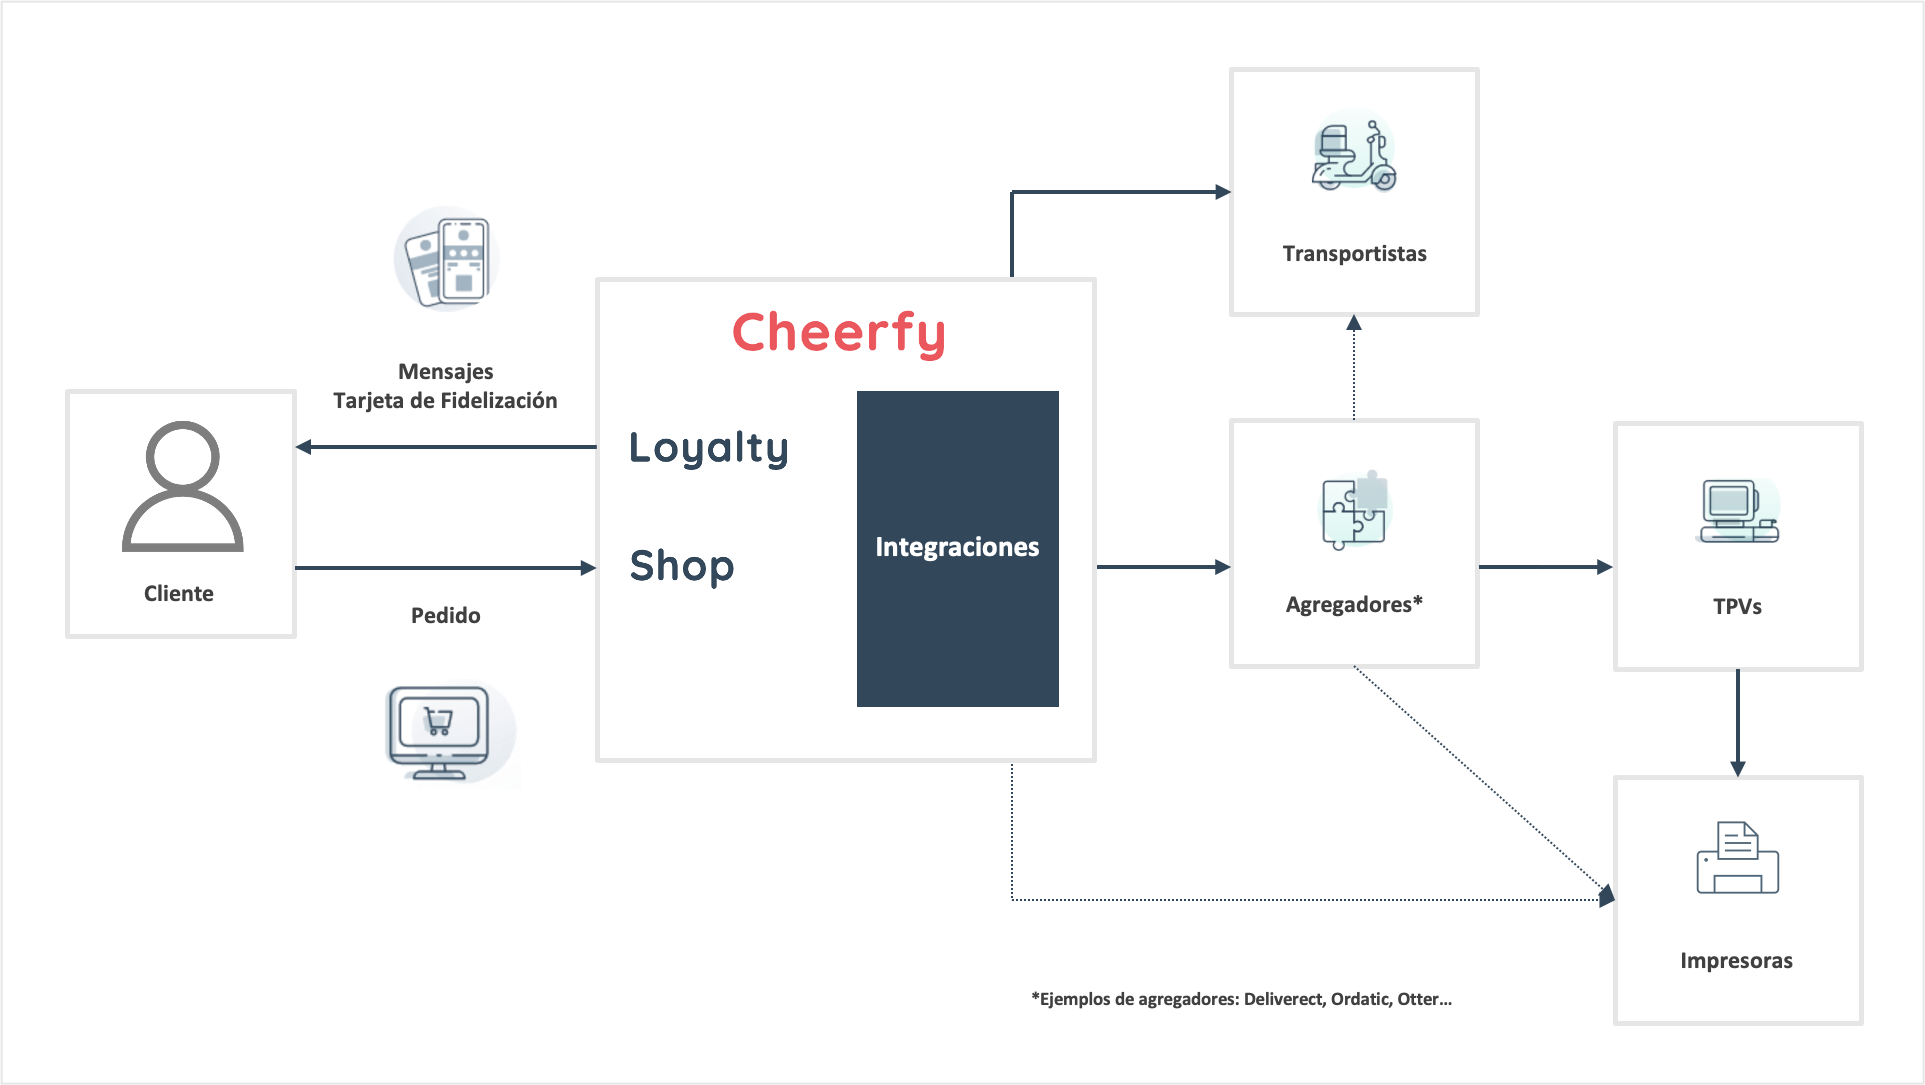
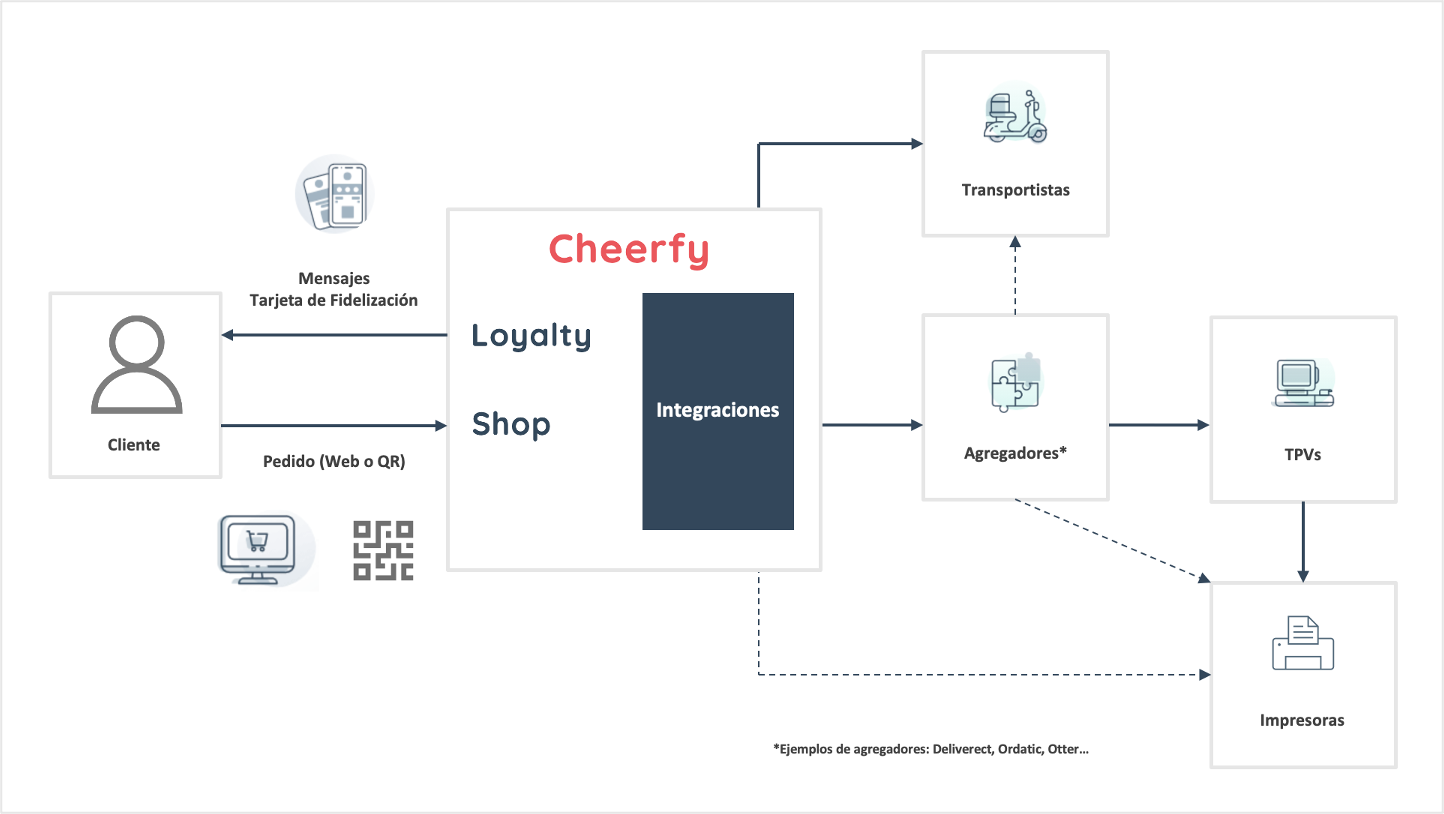
GitBook: [#104] Formación Empleados 1

diff --git a/cheerfy-shop-1/forma-a-tus-empleados.md b/cheerfy-shop-1/forma-a-tus-empleados.md
@@ -8,56 +8,141 @@ description: >-
 
 ## Introducción
 
-#### Viaje del cliente
+### Viaje del cliente
 
 ![](../.gitbook/assets/Exp1.jpg)
 
 ![](../.gitbook/assets/Exp2.jpg)
 
-#### Ecosistema
+### Ecosistema
 
-![](<../.gitbook/assets/Exp flujo (2).png>)
+![](<../.gitbook/assets/Exp flujo (1).png>)
 
-## Servicios
+## Servicios y horarios
 
-* Recogidas - pedidos de Take Away o para recoger en tienda
+* Recogidas - pedidos de Take Away o para recoger en tienda.
 * Entregas - pedidos a domicilio.
 * Cenas - pedidos producidos en el restaurante.
 
+### 3 tipos de servicio
+
 ![](<../.gitbook/assets/image (170).png>)
 
-#### Parámetros clave
+#### 1. Recogidas
 
-* General.
-  * **Activado**: haz clic para activar el servicio.
+Pedidos de Take Away o para recoger en tienda.
 
-<img src="../.gitbook/assets/image (169).png" alt="" data-size="original">
+**Parámetros clave**:
 
-* Tiempo de pedido.
-  * **Habilitar pedidos inmediatos**: haz clic para activar pedidos inmediatos.
-  * **Compensación del Primer Pedido**: período de tiempo desde que su tienda abre hasta que acepta el primer pedido. Por ejemplo, si aquí añades 30 minutos y tu tienda abre a las 9:00am, el primer pedido se podrá realizar o programar a las 9:30am.
-  * **Compensación del Último Pedido**: período de tiempo desde que tu tienda cierra hasta que se acepta el último pedido. Por ejemplo, si aquí añades 30 minutos y tu tienda cierra a las 9:00pm, el último pedido se podrá realizar o programar a las 8:30pm.
-  * **Habilitar pedidos posteriores**: haz clic para permitir a tus clientes realizar pedidos para una fecha y hora posteriores.
-  * **Días máximos de adelanto**: número de días de anticipación que los clientes pueden realizar pedidos.
-  * **Intervalo de tiempo**: cantidad de minutos entre cada intervalo de tiempo de pedido disponible.
-  * **Compensación de pedidos**: cantidad mínima de tiempo a partir de ahora que se debe realizar un pedido para un momento posterior.
 
-![](<../.gitbook/assets/image (166).png>)
 
-* Horas disponibles.
-  * **Horas de servicio personalizadas**: si deseas que un determinado servicio tenga un horario especial o distinto al resto, ajusta aquí el horario concreto de dicho servicio.
+#### 2. Entregas
 
-![](<../.gitbook/assets/image (172).png>)
+Pedidos a domicilio.
+
+**Parámetros clave**:
+
+
+
+#### 3. Cenas
+
+Pedidos realizados en el restaurante.
+
+**Parámetros clave**:
+
+
 
 {% hint style="danger" %}
 Acuérdate de darle a guardar cada vez que edites.
 {% endhint %}
 
-#### Experiencia de cliente
+### Configuración de servicios disponibles
 
-{% content-ref url="puesta-en-marcha/experiencia-de-cliente.md" %}
-[experiencia-de-cliente.md](puesta-en-marcha/experiencia-de-cliente.md)
-{% endcontent-ref %}
+#### Delivery y Take Away:
+
+Landing Page
+
+Pausar / reactivar servicios
+
+#### Sala:
+
+
+
+### Horario
+
+#### Localización
+
+#### Servicios
+
+#### Menús
+
+## Menú
+
+### Integrado con agregador / TPV
+
+#### Sincronización TPV -> Agregador -> Cheerfy
+
+#### Disponibilidad de productos
+
+#### Ordenación de grupos odificadores: obligatorio y opcional, luego alfabético.
+
+#### Filtros del menú: horarios, servicio
+
+#### Etiquetas
+
+### Manual
+
+## Promociones
+
+### Códigos de promoción
+
+### Cupones individuales
+
+## Recepción de pedidos
+
+### Integración: Inmediatos Vs programados
+
+### Cheerfy
+
+### Impresoras
+
+### Email
+
+## Pagos
+
+### Stripe Connect
+
+### Stripe Standard
+
+### Fuera del local
+
+## Transportistas
+
+### Integración
+
+### Matriz de priorización
+
+### Cómo cancelar
+
+## Crear empleados
+
+1. En el panel principal de Cheerfy Shop (antes de seleccionar restaurante), selecciona la opción "Staff" del menú de arriba.&#x20;
+2. Haz click en "Create Staff".
+3. Asigna las credenciales y permisos del empleado en cuestión.
+
+![](<../.gitbook/assets/image (72).png>)
+
+## Varios
+
+### Datos clave
+
+### Recibos
+
+### Página de confirmación
+
+### IVA
+
+### Propina
 
 ## Cancelación de Pedidos
 
@@ -157,10 +242,3 @@ Como mencionábamos en el paso anterior, si hiciese falta reembolsar un pedido p
 
 ![](<../.gitbook/assets/image (76).png>)
 
-## Invitar Empleados
-
-1. En el panel principal de Cheerfy Shop (antes de seleccionar restaurante), selecciona la opción "Staff" del menú de arriba.&#x20;
-2. Haz click en "Create Staff".
-3. Asigna las credenciales y permisos del empleado en cuestión.
-
-![](<../.gitbook/assets/image (72).png>)

diff --git a/cheerfy-loyalty/instalacion-escaner.md b/cheerfy-loyalty/instalacion-escaner.md
@@ -31,7 +31,7 @@ En caso de no saber cuál elegir, te sugerimos el modelo Tera HW0002.
 
 Para mostrar una configuración, ejemplificamos con dicho modelo (Tera HW0002):
 
-![](<../.gitbook/assets/image (167) (1).png>)
+![](<../.gitbook/assets/image (167) (1) (1).png>)
 
 Es tan simple como ir escaneando los distintos códigos de barras en el orden indicado.&#x20;
 
@@ -53,7 +53,7 @@ A medida que procedas con dichos escaneos, se irá configurando automáticamente
 
 5\. Elige la opción "Modo lector de códigos" y dale a "Aceptar".
 
-<img src="../.gitbook/assets/image (167) (1) (1).png" alt="" data-size="original">
+<img src="../.gitbook/assets/image (167) (1) (1) (1).png" alt="" data-size="original">
 
 {% hint style="warning" %}
 En caso de que hayas elegido la opción "Introduce el total del ticket para calcular las estampas puntos", cuando vayas a canjear la tarjeta de fidelización, deberás indicar la cantidad del ticket en el dispositivo al que el lector esté conectado.
